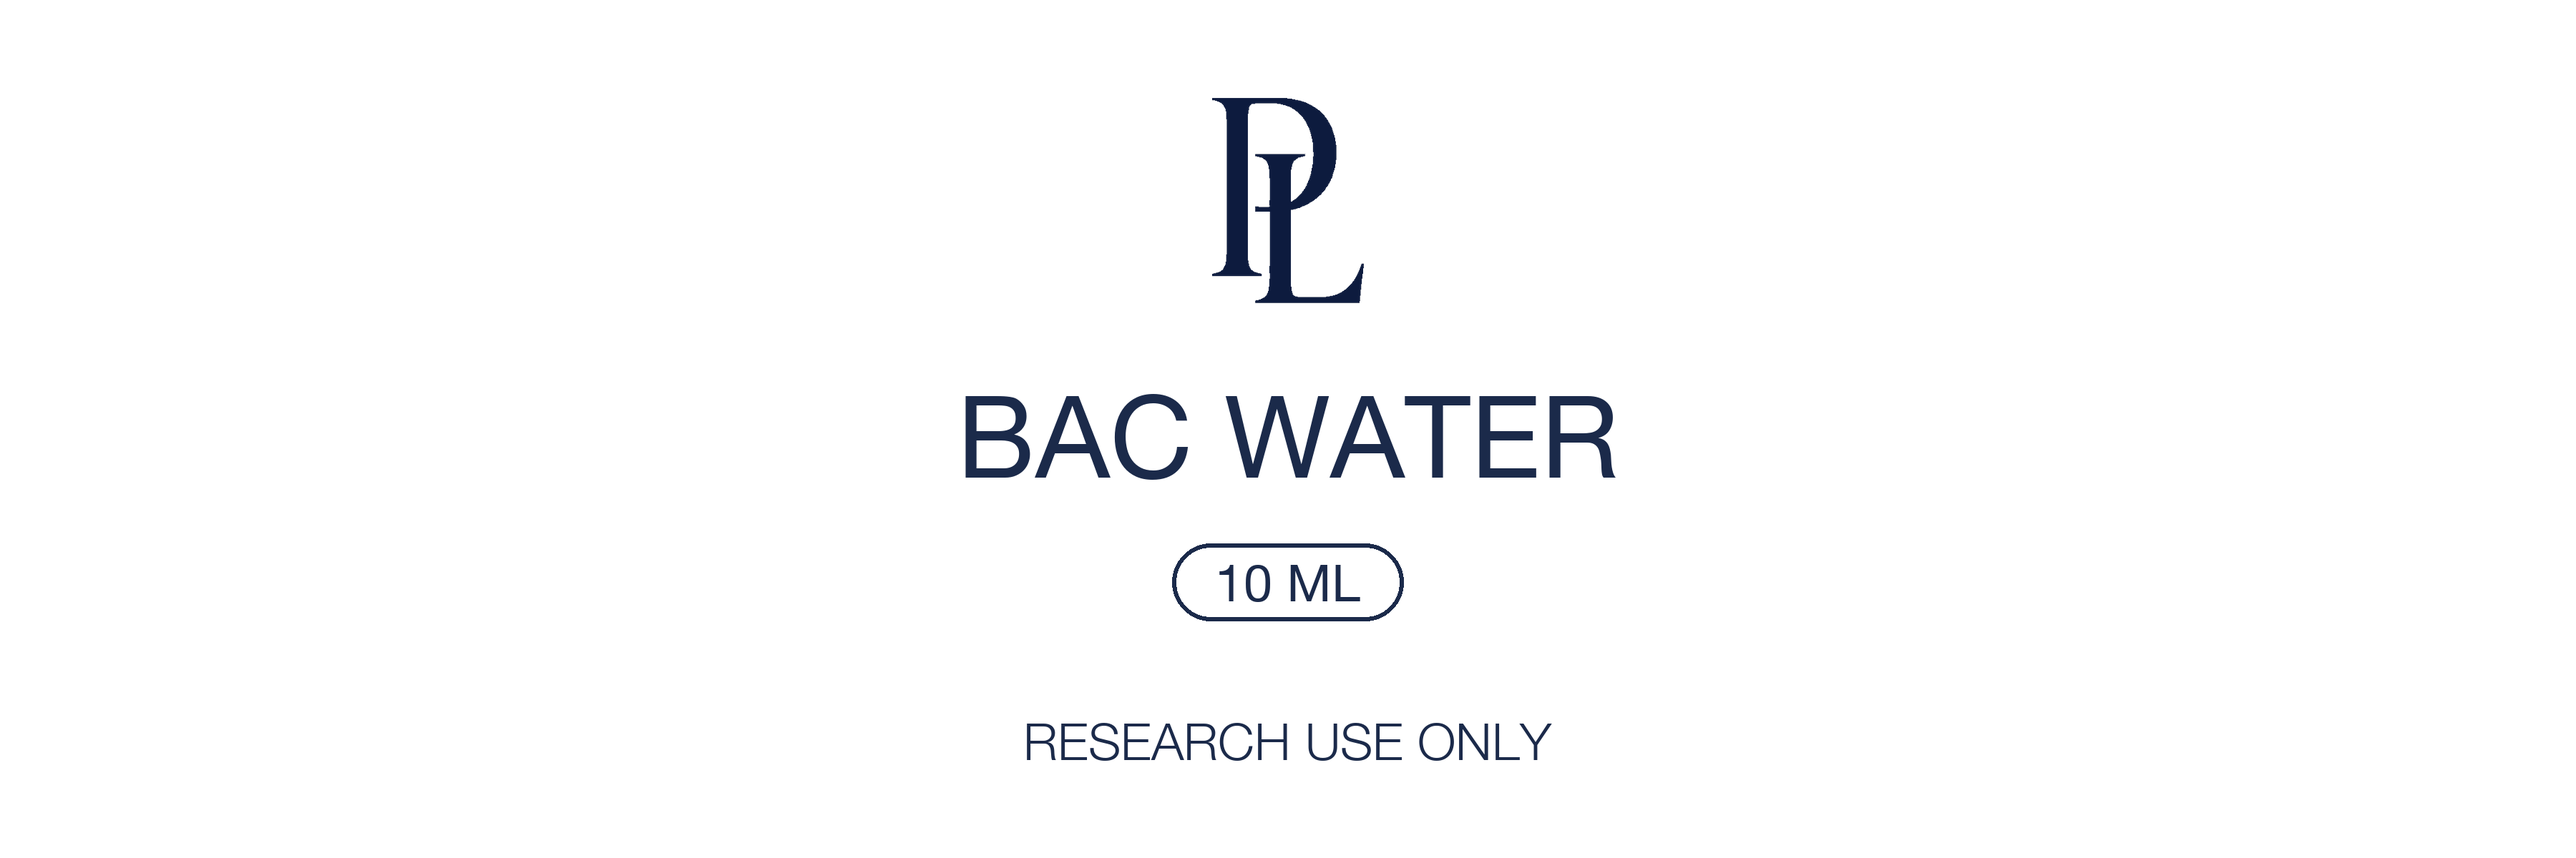
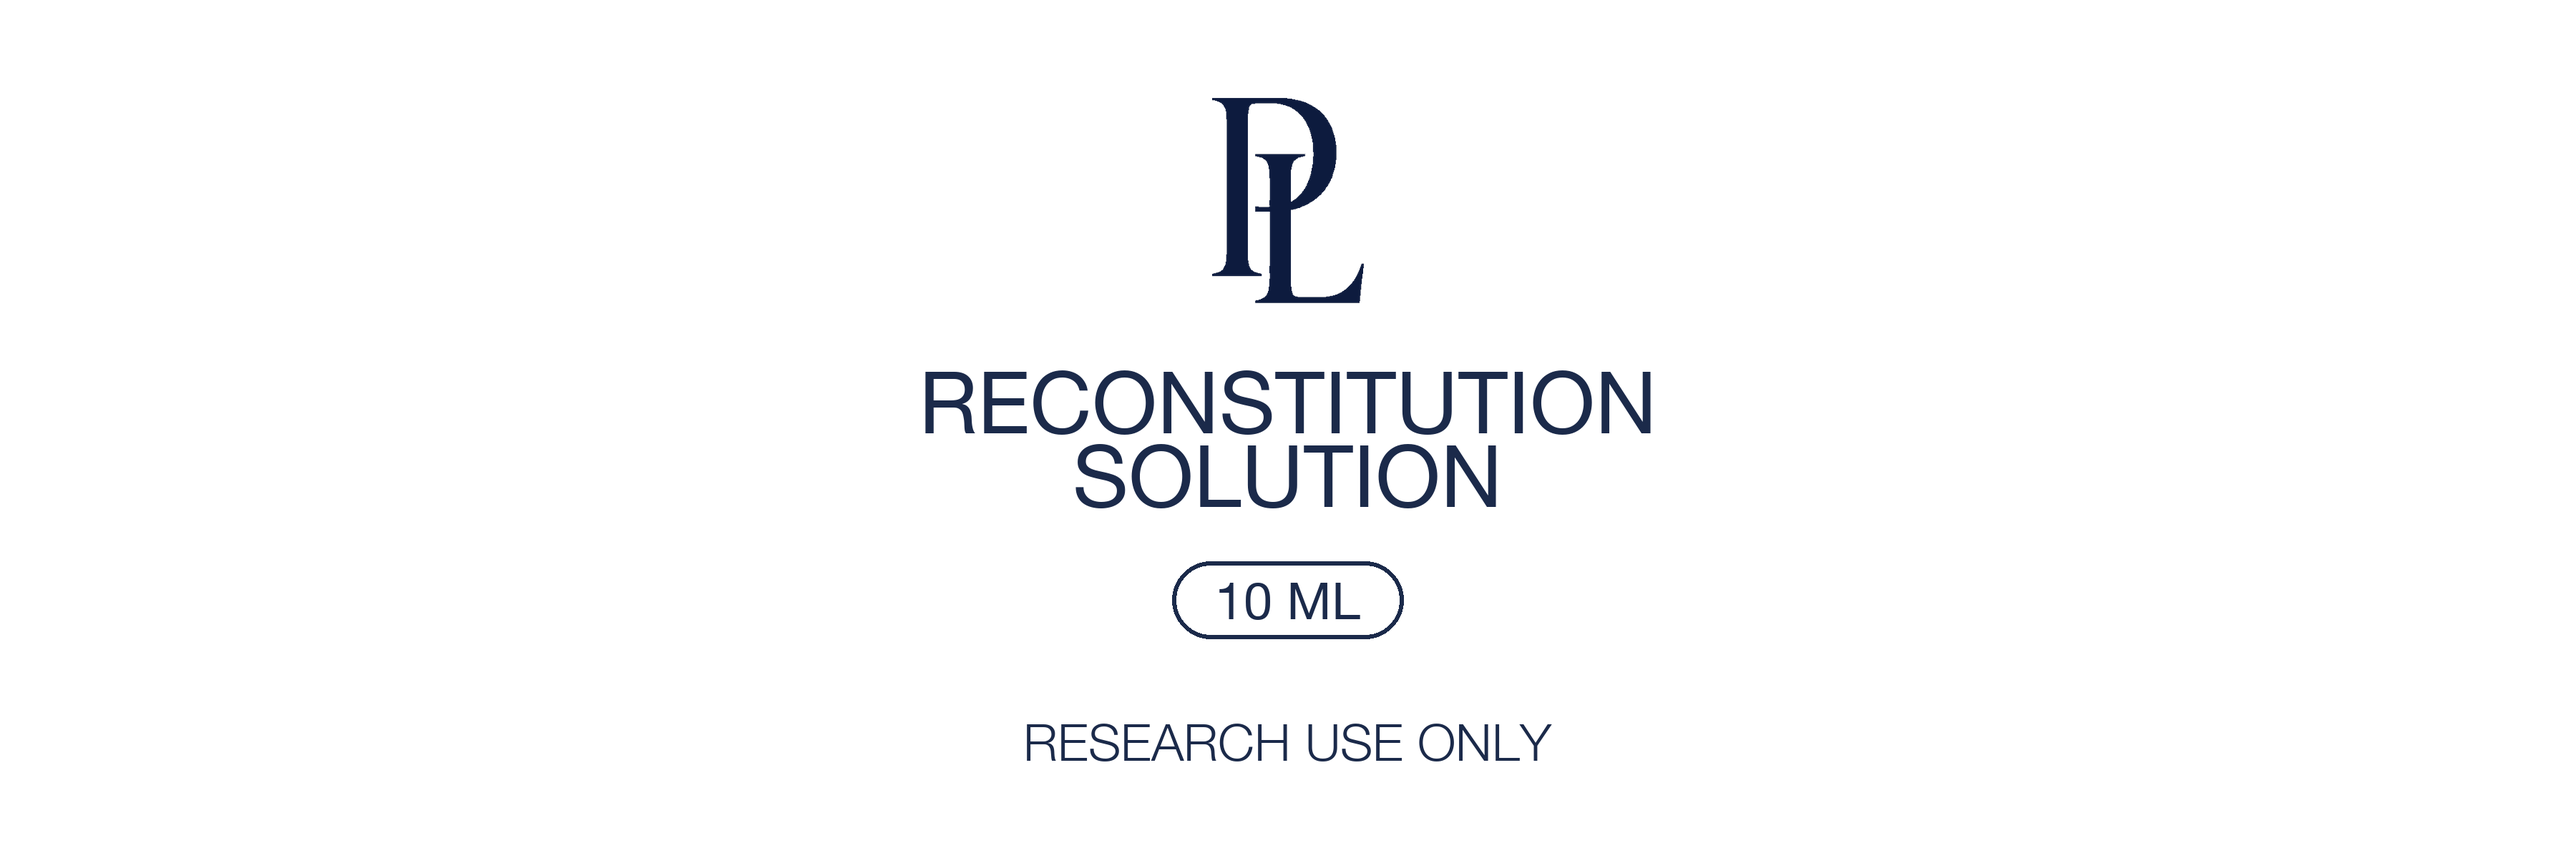
fix: RECONSTITUTION SOLUTION two-line label, multiline support in generate-labels

Changed region(s): [[0.3422, 0.4317, 0.6533, 0.7708]]

diff --git a/scripts/generate-labels.py b/scripts/generate-labels.py
@@ -38,11 +38,13 @@ def draw_label(filename, product_name, dosage):
     logo_img = logo_img.resize((logo_w, logo_target_h), Image.LANCZOS)
 
     # Measure text elements
-    name_bb = draw.textbbox((0,0), product_name,        font=font_name)
+    name_lines = product_name.split("\n")
+    name_line_bbs = [draw.textbbox((0,0), l, font=font_name) for l in name_lines]
+    single_line_h = name_line_bbs[0][3] - name_line_bbs[0][1]
+    name_h = sum(bb[3]-bb[1] for bb in name_line_bbs) + int(single_line_h * 0.15) * (len(name_lines)-1)
+
     dose_bb = draw.textbbox((0,0), dosage,              font=font_dosage)
     tag_bb  = draw.textbbox((0,0), "RESEARCH USE ONLY", font=font_tag)
-
-    name_h = name_bb[3] - name_bb[1]
     dose_h = dose_bb[3] - dose_bb[1]
     tag_h  = tag_bb[3]  - tag_bb[1]
     pill_h = dose_h + pill_pad_y * 2
@@ -60,10 +62,24 @@ def draw_label(filename, product_name, dosage):
     name_y = CONTENT_START + logo_target_h + gap
 
     def draw_centered_text(text, font, y_pos):
-        bb = draw.textbbox((0,0), text, font=font)
-        tw = bb[2] - bb[0]
-        draw.text(((W - tw) // 2, y_pos), text, fill=NAVY, font=font)
-        return bb[3] - bb[1]
+        lines = text.split("\n")
+        line_height = None
+        total_h = 0
+        for line in lines:
+            bb = draw.textbbox((0,0), line, font=font)
+            lh = bb[3] - bb[1]
+            if line_height is None:
+                line_height = lh
+            total_h += lh
+        total_h += int(line_height * 0.15) * (len(lines) - 1)  # small gap between lines
+        y = y_pos
+        for line in lines:
+            bb = draw.textbbox((0,0), line, font=font)
+            tw = bb[2] - bb[0]
+            lh = bb[3] - bb[1]
+            draw.text(((W - tw) // 2, y), line, fill=NAVY, font=font)
+            y += lh + int(line_height * 0.15)
+        return total_h
 
     # 1. PL logo — lowered independently so it's not cut off
     logo_x = (W - logo_w) // 2
@@ -110,7 +126,7 @@ PRODUCTS = [
     ("label-glutathione.png",  "GLUTATHIONE",           "1200 MG"),
     ("label-lcarnitine.png",   "L-CARNITINE",           "600 MG/ML"),
     ("label-nad.png",          "NAD+",                  "600 MG"),
-    ("label-bacwater.png",     "BAC WATER",             "10 ML"),
+    ("label-bacwater.png",     "RECONSTITUTION\nSOLUTION", "10 ML"),
     ("label-ghkcu-50.png",     "GHK-CU",                "50 MG"),
     ("label-ghkcu-100.png",    "GHK-CU",                "100 MG"),
 ]
